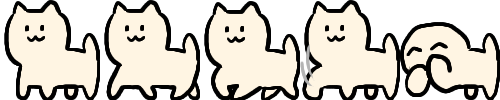
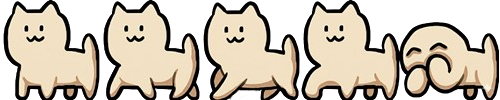
유닛 스프라이트 교체

diff --git a/src/game/UnitManager.js b/src/game/UnitManager.js
@@ -10,6 +10,44 @@ export default class UnitManager {
         this.enemySpawnCount = 0;
     }
 
+    getStageScaleMultiplier() {
+        // Stage 1: 1.0, Stage 2: 1.2
+        return this.scene.stage === 2 ? 1.2 : 1.0;
+    }
+
+    updateAllUnitScales() {
+        const multiplier = this.getStageScaleMultiplier();
+        [...this.allies, ...this.enemies].forEach(unit => {
+            if (unit.isSprite) {
+                // Stop breathing tween if exists to prevent it from overriding vertical scale
+                if (unit.breathingTween) {
+                    unit.breathingTween.stop();
+                    unit.breathingTween = null;
+                }
+                
+                unit.setScale(unit.baseScale * multiplier);
+                unit.logicWidth = (unit.baseWidth || 0) * multiplier;
+                
+                // Restart breathing for bosses
+                if (unit.isBoss) {
+                    this.addBreathingEffect(unit);
+                }
+            }
+        });
+    }
+
+    addBreathingEffect(unit) {
+        if (unit.breathingTween) unit.breathingTween.stop();
+        unit.breathingTween = this.scene.tweens.add({
+            targets: unit,
+            scaleY: unit.scaleY * 1.05,
+            duration: 1000,
+            yoyo: true,
+            repeat: -1,
+            ease: 'Sine.easeInOut'
+        });
+    }
+
     spawnAlly(typeKey, yOffsetBase = 270) {
         const specs = ALLY_TYPES[typeKey];
         if (!specs) return null;
@@ -23,8 +61,9 @@ export default class UnitManager {
 
         if (this.scene.textures.exists(spriteKey)) {
             ally = this.scene.add.sprite(0, yOffsetBase + yOffset, spriteKey).setOrigin(0.5, 1).setFlipX(true);
-            ally.setScale(specs.scale || 0.5);
-            ally.baseScale = specs.scale || 0.5;
+            const baseScale = specs.scale || 0.5;
+            ally.baseScale = baseScale;
+            ally.setScale(baseScale * this.getStageScaleMultiplier());
 
             // Check if walk animation exists
             if (this.scene.anims.exists(spriteKey + '_walk')) {
@@ -39,7 +78,9 @@ export default class UnitManager {
         ally.setDepth(450 + yOffset);
         ally.isAlly = true;
         ally.typeKey = typeKey;
-        ally.logicWidth = specs.w;
+        const multiplier = this.getStageScaleMultiplier();
+        ally.baseWidth = specs.w;
+        ally.logicWidth = ally.baseWidth * multiplier;
         Object.assign(ally, {
             hp: specs.hp,
             maxHp: specs.hp,
@@ -89,8 +130,9 @@ export default class UnitManager {
 
         if (this.scene.textures.exists(spriteKey)) {
             enemy = this.scene.add.sprite(800, yOffsetBase + yOffset, spriteKey).setOrigin(0.5, 1);
-            enemy.setScale(specs.scale || 0.6);
-            enemy.baseScale = specs.scale || 0.6;
+            const baseScale = specs.scale || 0.6;
+            enemy.baseScale = baseScale;
+            enemy.setScale(baseScale * this.getStageScaleMultiplier());
             if (this.scene.anims.exists(spriteKey + '_walk')) {
                 enemy.play(spriteKey + '_walk');
             }
@@ -102,7 +144,9 @@ export default class UnitManager {
 
         enemy.setDepth(450 + yOffset);
         enemy.isAlly = false;
-        enemy.logicWidth = specs.w;
+        const multiplier = this.getStageScaleMultiplier();
+        enemy.baseWidth = specs.w;
+        enemy.logicWidth = enemy.baseWidth * multiplier;
 
         const scale = 1 + (level * 0.1); // difficulty scaling
 
@@ -137,12 +181,14 @@ export default class UnitManager {
         let scale = specs.scale || 1.0;
         let hp = specs.hp;
         let damage = specs.damage || 0;
+        let baseWidth = specs.w;
 
         if (!isAlly && this.scene.stage === 1) {
             spriteKey = 'enemy_dog';
             scale = 0.8; // 2x normal minion size (0.6 * 2)
             hp = 1000;
             damage = 15;
+            baseWidth = 80; // 2x normal dog minion width (40 * 2)
         }
 
         const boss = this.scene.add.sprite(x, y, spriteKey).setOrigin(0.5, 1);
@@ -150,8 +196,9 @@ export default class UnitManager {
         if (isAlly) {
             boss.setFlipX(true);
         }
-        boss.setScale(scale);
         boss.baseScale = scale;
+        const multiplier = this.getStageScaleMultiplier();
+        boss.setScale(scale * multiplier);
         boss.setFrame(0);
         boss.setDepth(450);
         boss.isSprite = true;
@@ -160,7 +207,8 @@ export default class UnitManager {
         boss.isAlly = isAlly;
         boss.typeKey = type;
         boss.isBoss = true;
-        boss.logicWidth = specs.w;
+        boss.baseWidth = baseWidth;
+        boss.logicWidth = baseWidth * multiplier;
 
         Object.assign(boss, {
             hp: hp,
@@ -179,14 +227,7 @@ export default class UnitManager {
         boss.shadow = this.scene.add.ellipse(boss.x, boss.y, isAlly ? 80 : 120, 16, 0x000000, 0.25).setDepth(boss.depth - 0.1);
 
         // Breathing animation effect
-        this.scene.tweens.add({
-            targets: boss,
-            scaleY: boss.scaleY * 1.05,
-            duration: 1000,
-            yoyo: true,
-            repeat: -1,
-            ease: 'Sine.easeInOut'
-        });
+        this.addBreathingEffect(boss);
 
         // Boss HP Bar (Always visible)
         const barW = isAlly ? 80 : 120;
@@ -395,9 +436,10 @@ export default class UnitManager {
                     unit.buffRemainingTime -= delta;
 
                     if (unit.isSprite) {
+                        const multiplier = this.getStageScaleMultiplier();
                         const ratio = Math.max(0, unit.buffRemainingTime / 10000);
-                        // Scale fades from 1.1x to 1.0x
-                        unit.setScale(unit.baseScale * (1 + 0.1 * ratio));
+                        // Scale fades from 1.1x to 1.0x, multiplied by stage factor
+                        unit.setScale(unit.baseScale * multiplier * (1 + 0.1 * ratio));
 
                         // Tint fades from Red (0xff8888) to White (0xffffff)
                         const greenBlue = Math.floor(136 + (255 - 136) * (1 - ratio));
@@ -406,7 +448,7 @@ export default class UnitManager {
 
                     if (unit.buffRemainingTime <= 0) {
                         if (unit.isSprite) {
-                            unit.setScale(unit.baseScale);
+                            unit.setScale(unit.baseScale * this.getStageScaleMultiplier());
                             unit.clearTint();
                         }
                     }

diff --git a/src/App.css b/src/App.css
@@ -246,7 +246,7 @@ body {
 }
 
 .basic-icon { background-image: url('./assets/units/normal.png'); }
-.tank-icon { background-image: url('./assets/units/tanker.png'); }
+.tank-icon { background-image: url('./assets/units/tanker.png'); background-size: 240px 40px; }
 .ranger-icon { background-image: url('./assets/units/shooter.png'); }
 
 .ability-icon {

diff --git a/src/game/GameScene.js b/src/game/GameScene.js
@@ -182,6 +182,8 @@ export default class GameScene extends Phaser.Scene {
             const scale = 800 / this.bg.width;
             this.bg.setScale(scale);
         }
+        // Update all existing units to match the new stage's scale multiplier
+        this.unitManager.updateAllUnitScales();
     }
 
     spawnEnemy() {
